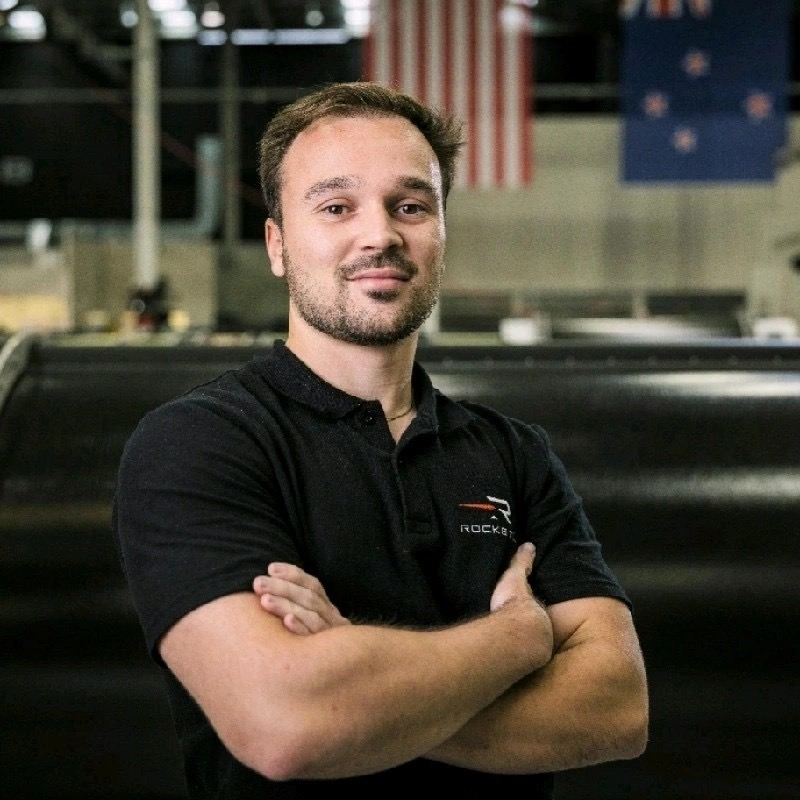
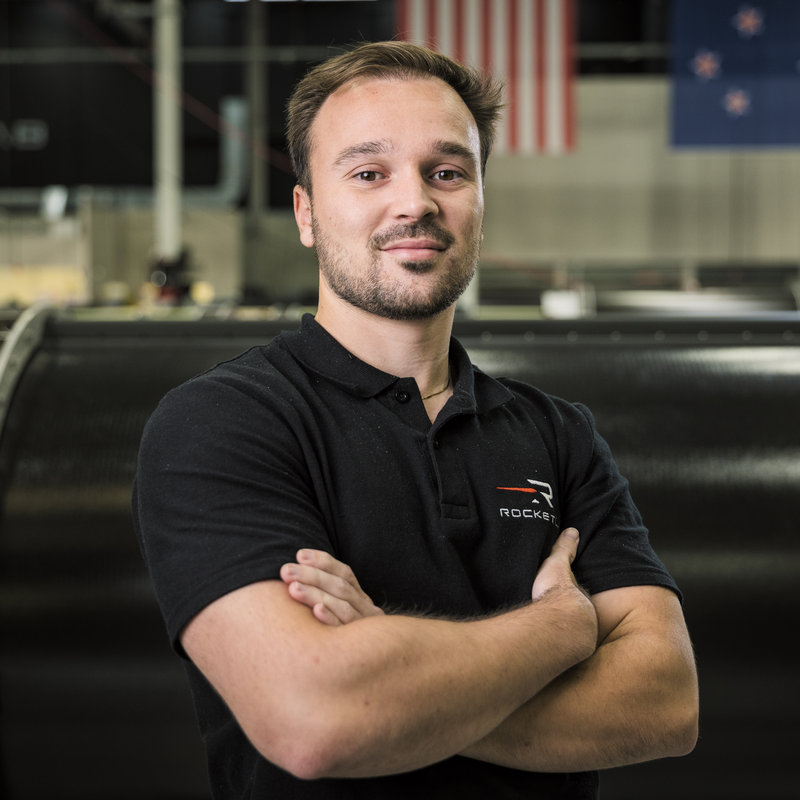
Update headshot, OG image, and unaccented display name (#8)
Replace the profile photo and Open Graph card, and standardize the
visible name, title, and JSON-LD primary name to Anibal Guerrero Hernandez
with accented forms kept in alternateName.

diff --git a/src/components/HomePage.tsx b/src/components/HomePage.tsx
@@ -87,7 +87,7 @@ export function HomePage() {
       <header className="sticky top-0 z-50 bg-background/80 backdrop-blur-sm border-b border-border/40">
         <div className="max-w-3xl mx-auto px-6 py-4 flex items-center justify-between">
           <span className="text-sm font-medium text-foreground">
-            Aníbal Guerrero Hernandez
+            Anibal Guerrero Hernandez
           </span>
           <div className="flex items-center gap-5">
             <Link
@@ -110,7 +110,7 @@ export function HomePage() {
           <div className="flex flex-col sm:flex-row sm:items-start sm:justify-between gap-8">
             <div className="flex-1">
               <h1 className="text-3xl sm:text-4xl font-bold tracking-tight text-foreground mb-3">
-                Aníbal Guerrero<br />Hernandez
+                Anibal Guerrero<br />Hernandez
               </h1>
               <p className="text-lg text-muted-foreground mb-6">
                 Aerospace Engineer · AI Enthusiast
@@ -129,7 +129,7 @@ export function HomePage() {
               <div className="w-28 h-28 sm:w-32 sm:h-32 relative rounded-full overflow-hidden ring-2 ring-border">
                 <Image
                   src="/media/shared/pfp.jpeg"
-                  alt="Aníbal Guerrero Hernandez"
+                  alt="Anibal Guerrero Hernandez"
                   fill
                   className="object-cover"
                   priority
@@ -277,7 +277,7 @@ export function HomePage() {
       <footer className="border-t border-border/60">
         <div className="max-w-3xl mx-auto px-6 py-8 flex flex-col sm:flex-row items-center justify-between gap-4">
           <p className="text-sm text-muted-foreground">
-            © {new Date().getFullYear()} Aníbal Guerrero Hernandez
+            © {new Date().getFullYear()} Anibal Guerrero Hernandez
           </p>
           <SocialLinks className="flex items-center gap-4" />
         </div>

diff --git a/src/components/ProjectsPage.tsx b/src/components/ProjectsPage.tsx
@@ -32,7 +32,7 @@ export function ProjectsPage() {
       <header className="sticky top-0 z-50 bg-background/80 backdrop-blur-sm border-b border-border/40">
         <div className="max-w-4xl mx-auto px-6 py-4 flex items-center justify-between">
           <Link href="/" className="text-sm font-medium text-foreground">
-            Aníbal Guerrero Hernandez
+            Anibal Guerrero Hernandez
           </Link>
           <div className="flex items-center gap-3">
             <SocialLinks />
@@ -127,7 +127,7 @@ export function ProjectsPage() {
       <footer className="border-t border-border/60">
         <div className="max-w-4xl mx-auto px-6 py-8 flex flex-col sm:flex-row items-center justify-between gap-4">
           <p className="text-sm text-muted-foreground">
-            © {new Date().getFullYear()} Aníbal Guerrero Hernandez
+            © {new Date().getFullYear()} Anibal Guerrero Hernandez
           </p>
           <SocialLinks className="flex items-center gap-4" />
         </div>

diff --git a/src/lib/structured-data.ts b/src/lib/structured-data.ts
@@ -45,8 +45,8 @@ export function buildPersonJsonLd() {
     '@context': 'https://schema.org',
     '@type': 'Person',
     '@id': PERSON_ID,
-    name: 'Aníbal Guerrero Hernández',
-    alternateName: ['Anibal Guerrero', 'Anibal Guerrero Hernandez'],
+    name: 'Anibal Guerrero Hernandez',
+    alternateName: ['Aníbal Guerrero Hernández', 'Anibal Guerrero'],
     url: SITE_CANONICAL_URL,
     image: HEADSHOT_URL,
     jobTitle: 'GNC Engineer',

diff --git a/src/app/layout.tsx b/src/app/layout.tsx
@@ -6,7 +6,7 @@ import { SITE_CANONICAL_URL } from '@/lib/structured-data'
 
 const spaceGrotesk = Space_Grotesk({ subsets: ['latin'] })
 
-const SITE_NAME = 'Aníbal Guerrero Hernández'
+const SITE_NAME = 'Anibal Guerrero Hernandez'
 const DEFAULT_TITLE = `${SITE_NAME} | GNC Engineer`
 const DESCRIPTION =
   'Aerospace Engineer & AI Enthusiast. GNC Engineer at Rocket Lab.'
